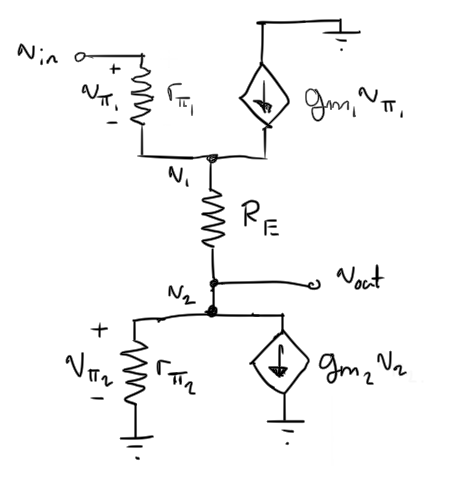
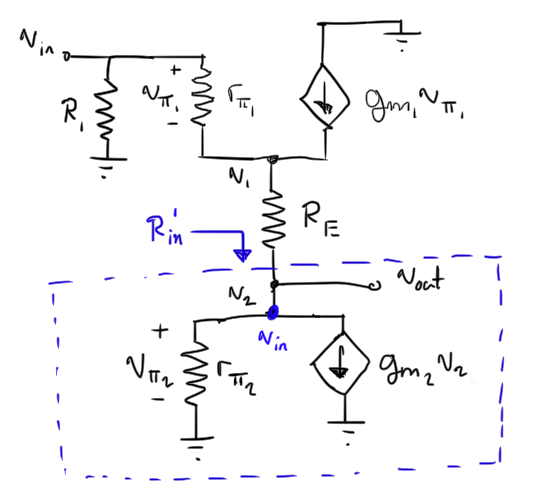
updated solutions and fixed some errors

diff --git a/SampleExam/SampleExamSolutions.html b/SampleExam/SampleExamSolutions.html
@@ -688,9 +688,7 @@ $$ T(s) = \frac {sL} {\frac {1} {sC} (LCs^2 + RCs + 1)} = \frac {s^2} {s^2 + \fr
 <h3 id="13.-Transistor-Circuits---Small-Signal-Analysis">13. Transistor Circuits - Small Signal Analysis<a class="anchor-link" href="#13.-Transistor-Circuits---Small-Signal-Analysis">&#182;</a></h3><p>The small signal model circuit is:</p>
 <p><img src='Q13_sol.png' width=50%  /></p>
 <p><strong>(a)</strong> The small signal input impedance</p>
-<p>The nodal analysis equations are:</p>
-$$ \frac {v_{in} - v_1} {r_{\pi 1}} + g_{m1}(v_{in} - v_1) = \frac {v_1 - v_2} {R_E} $$$$ \frac {v_1 - v_2} {R_E} = \frac {v_2} {r_{\pi 2}} + g_{m2} v_2 $$<p>These are messy to solve, so consider the thevenin resistance of just the second circuit:</p>
-<p><img src='Q13_sol2.png' width=55% /></p>
+<p>The nodal analysis equations are messy to solve, so consider the thevenin resistance of just the second circuit (circled in blue).</p>
 <p>We get:</p>
 $$ i_{in} = \frac {v_{in}} {r_{\pi 2}} + g_{m2} v_{in} $$<p>So:</p>
 $$ R_{in}' = \frac {r_{\pi 2}} {\beta_2 + 1} $$<p>The overall circuit is now:</p>
@@ -698,7 +696,9 @@ $$ R_{in}' = \frac {r_{\pi 2}} {\beta_2 + 1} $$<p>The overall circuit is now:</p
 <p>With nodal analysis equation:</p>
 $$ \frac {v_{in} - v_1} {r_{\pi 1}} + g_{m1} (v_{in} - v_1) = \frac {v_1} {R_E + R_{in}'} $$<p>So that:</p>
 $$ v_1 = \frac { \frac{1}{r_{\pi 1}} + g_{m1} } {\frac{1}{r_{\pi 1}} + g_{m1} + \frac{1}{R_E + R_{in}'}} \cdot v_{in} = \frac {\beta_1 + 1} {\beta_1 + 1 + \frac{r_{\pi 1}}{R_E + R_{in}'}} \cdot v_{in} $$<p>So:</p>
-$$ i_{in} = \frac {v_{in}} {r_{\pi 1}} (1 - \frac {\beta_1 + 1} {\beta_1 + 1 + \frac {r_{\pi 1}} {R_E + R_{in}'}}) = \frac {v_{in}} {(\beta_1 + 1)(R_E + R_{in}') + r_{\pi 1}}$$$$ R_{in} = \frac {v_{in}} {i_{in}} = (\beta_1 + 1)(R_E + R_{in}') + r_{\pi 1} $$
+$$ i_{in} = \frac {v_{in}} {r_{\pi 1}} (1 - \frac {\beta_1 + 1} {\beta_1 + 1 + \frac {r_{\pi 1}} {R_E + R_{in}'}}) = \frac {v_{in}} {(\beta_1 + 1)(R_E + R_{in}') + r_{\pi 1}}$$$$ R_{in} = \frac {v_{in}} {i_{in}} = (\beta_1 + 1)(R_E + R_{in}') + r_{\pi 1} $$<p><br>
+<strong>(b)</strong> The small signal output impedance</p>
+
 </div>
 </div>
 </div>
